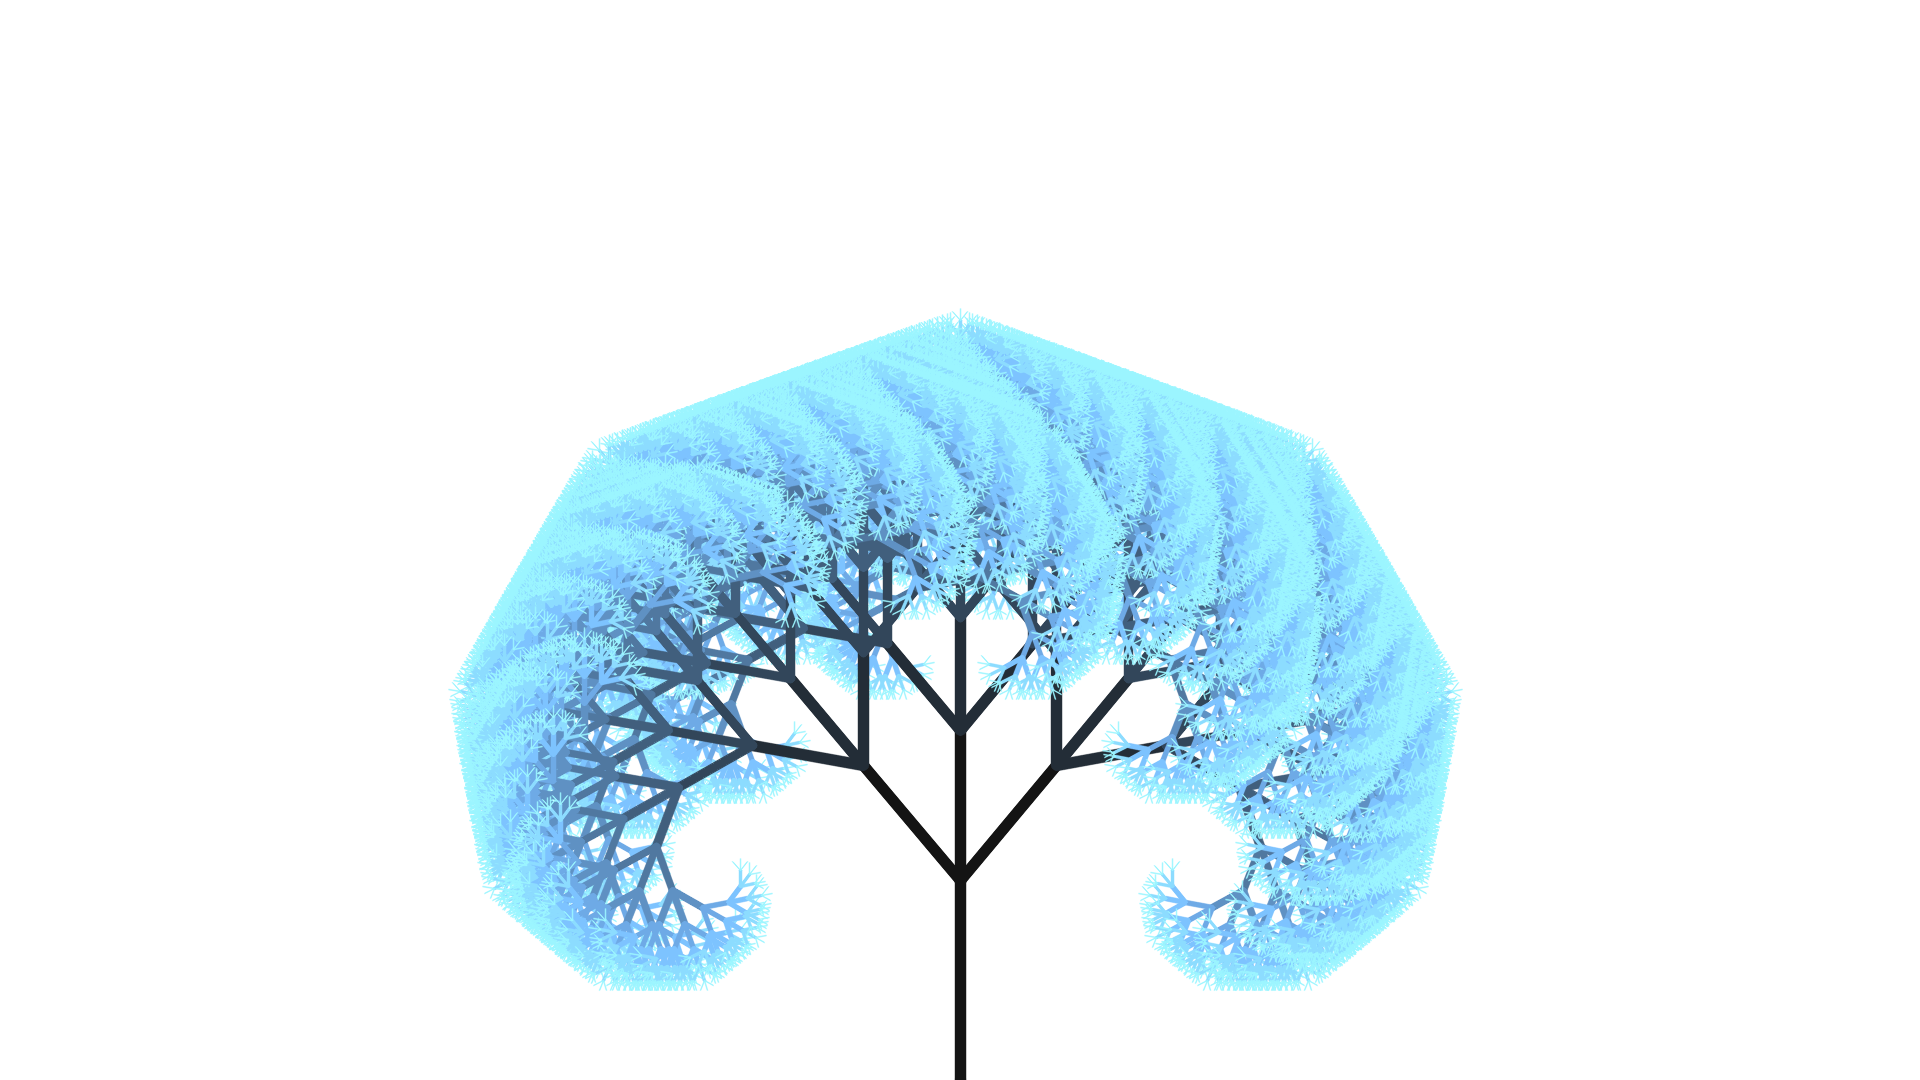
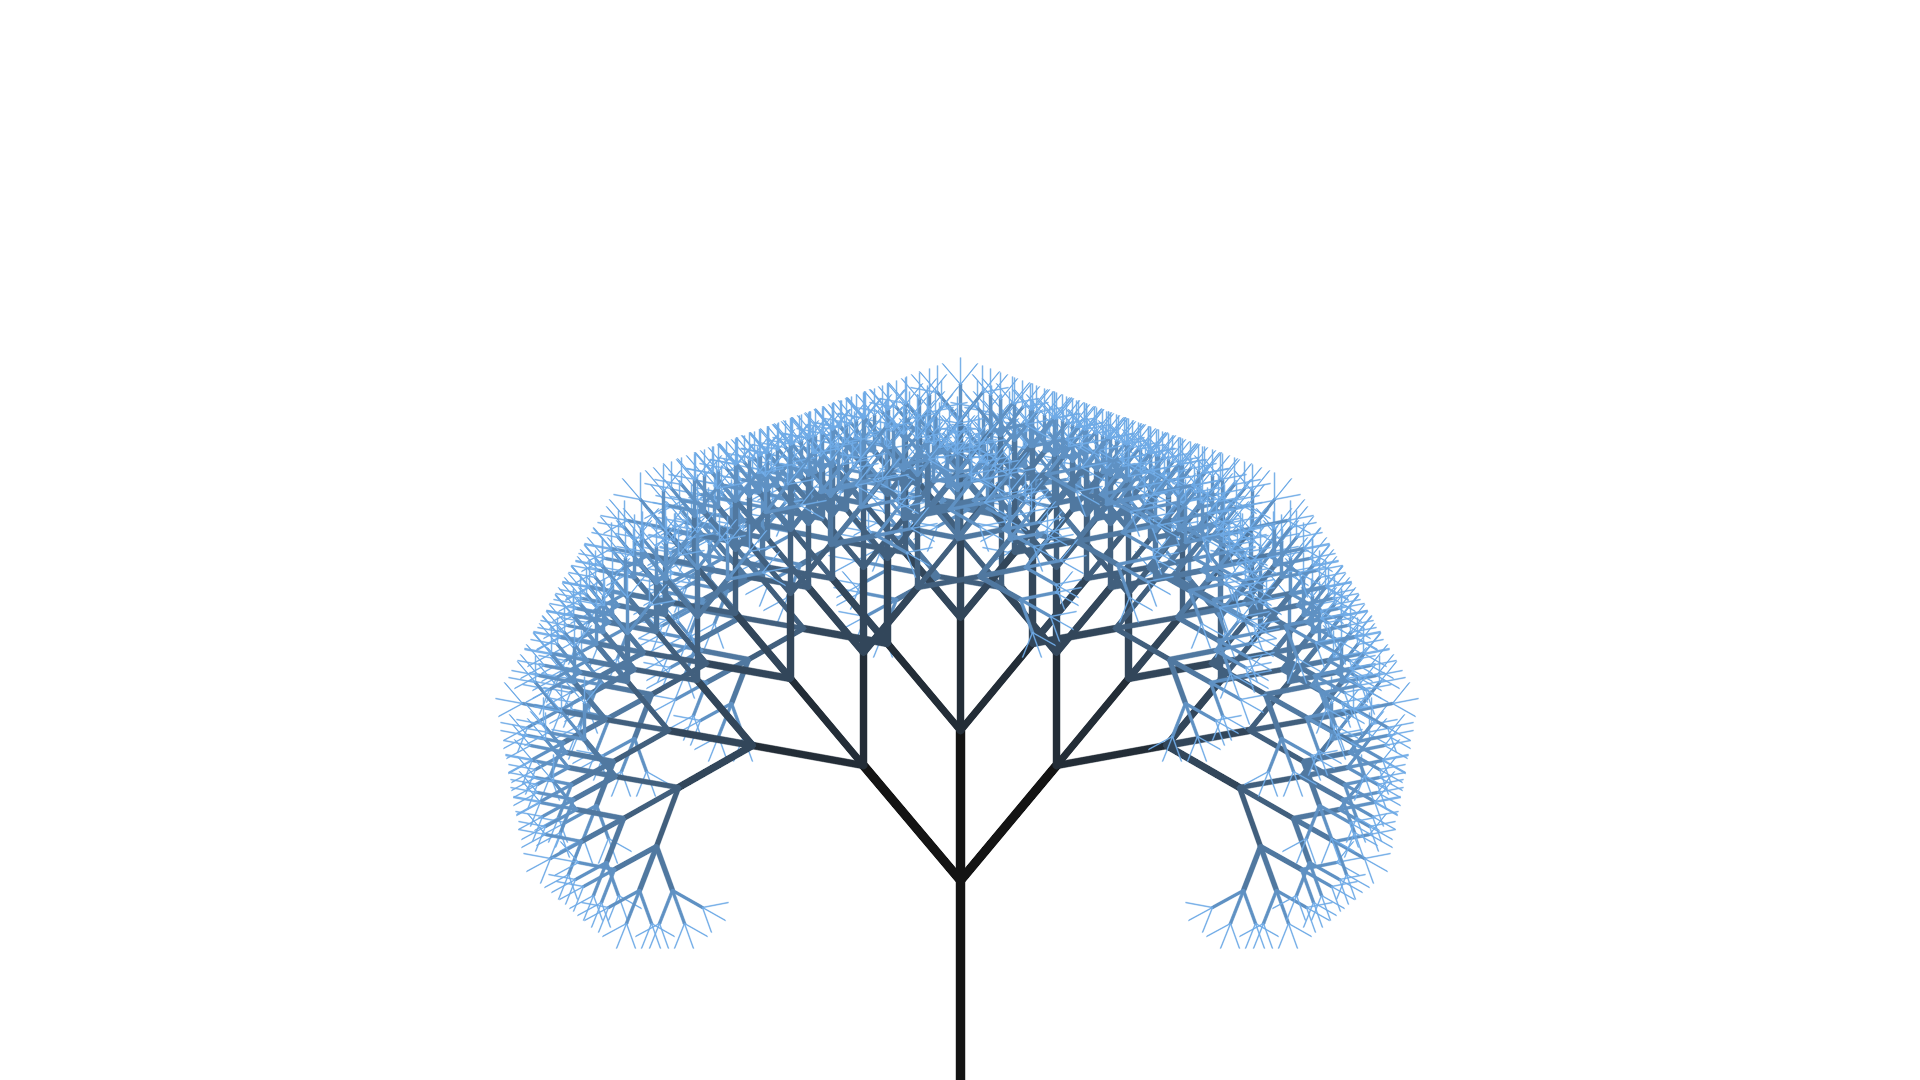
Separated main window to options and image preview

Changed region(s): [[0.2188, 0.275, 0.7812, 0.9167], [0.4688, 0.7639, 0.5312, 0.7944]]

diff --git a/gui/window.py b/gui/window.py
@@ -1,88 +1,135 @@
 from PyQt5.QtCore import Qt
-from PyQt5.QtGui import QPixmap
-from PyQt5.QtWidgets import QMainWindow, QVBoxLayout, QWidget, QHBoxLayout, QLabel
+from PyQt5.QtGui import QPixmap, QImage
+from PyQt5.QtWidgets import QMainWindow, QVBoxLayout, QWidget, QHBoxLayout, QLabel, QScrollArea, QSplitter
 
 from gui.interface.slider import Slider
 from gui.interface.num_box import NumBox
 from gui.interface.color_box import ColorBox
 from gui.interface.checkbox import Checkbox
-from gui.interface.separator import Separator
+from gui.interface.horizontal_separator import HorizontalSeparator
 from fractalgenerator.fractal_generator import *
+from gui.interface.vertical_separator import VerticalSeparator
+
+
+# TODO Add preview scale slider
+# TODO Add export image button
 
 
 class MainWindow(QMainWindow):
     def __init__(self):
         super().__init__()
 
-        tree_generator = FractalGenerator("Fractal Tree")
-        tree_generator.generate_tree()
+        self.fractal_gen = FractalGenerator("Fractal Tree")
+        self.fractal_gen.generate_tree()
 
-        self.setWindowTitle("Fractal Generator Options")
-        self.setGeometry(100, 100, 500, 600)
+        self.setWindowTitle("Fractal Tree Generator")
+        self.setGeometry(100, 100, 1200, 720)
 
         central_widget = QWidget()
         self.setCentralWidget(central_widget)
 
-        layout = QHBoxLayout()
-
         options_layout = QVBoxLayout()
-        image_layout = QVBoxLayout()
+        image_layout = QHBoxLayout()
 
-        self.width_box = NumBox("Image width:", 50, 9999, DEFAULT_WINDOW_WIDTH)
+        self.width_box = NumBox("Image width:", 50, 9999, DEFAULT_WINDOW_WIDTH, on_change_fun=self.update_generator_values)
         options_layout.addLayout(self.width_box.get_layout())
 
-        self.height_box = NumBox("Image height:", 50, 9999, DEFAULT_WINDOW_HEIGHT)
+        self.height_box = NumBox("Image height:", 50, 9999, DEFAULT_WINDOW_HEIGHT, on_change_fun=self.update_generator_values)
         options_layout.addLayout(self.height_box.get_layout())
 
-        options_layout.addLayout(Separator().get_layout())
+        options_layout.addLayout(HorizontalSeparator().get_layout())
 
-        self.angle_slider = Slider("Branch angle:", 0, 180, DEFAULT_ANGLE_DIFF)
+        self.angle_slider = Slider("Branch angle:", 0, 90, DEFAULT_ANGLE_DIFF, on_change_fun=self.update_generator_values)
         options_layout.addLayout(self.angle_slider.get_layout())
 
-        self.branch_shorten_slider = Slider("Branch shorten:", 1, 99, DEFAULT_BRANCH_SHORTEN, precision=100)
+        self.branch_shorten_slider = Slider("Branch shorten:", 1, 99, DEFAULT_BRANCH_SHORTEN, precision=100, on_change_fun=self.update_generator_values)
         options_layout.addLayout(self.branch_shorten_slider.get_layout())
 
-        options_layout.addLayout(Separator().get_layout())
+        options_layout.addLayout(HorizontalSeparator().get_layout())
 
-        self.iterations_box = NumBox("Iterations:", 0, 20, DEFAULT_ITERATIONS)
+        self.iterations_box = NumBox("Iterations:", 0, 20, DEFAULT_ITERATIONS, on_change_fun=self.update_generator_values)
         options_layout.addLayout(self.iterations_box.get_layout())
 
-        self.branches_box = NumBox("Branches:", 1, 7, DEFAULT_BRANCHES)
+        self.branches_box = NumBox("Branches:", 1, 7, DEFAULT_BRANCHES, on_change_fun=self.update_generator_values)
         options_layout.addLayout(self.branches_box.get_layout())
 
-        self.branch_length_box = NumBox("Branch start length:", 1, 9999, DEFAULT_START_BRANCH_LENGTH)
+        self.branch_length_box = NumBox("Branch start length:", 1, 9999, DEFAULT_START_BRANCH_LENGTH, on_change_fun=self.update_generator_values)
         options_layout.addLayout(self.branch_length_box.get_layout())
 
-        self.root_height_box = NumBox("Root height:", 1, 9999, DEFAULT_ROOT_HEIGHT)
+        self.root_height_box = NumBox("Root height:", 1, 9999, DEFAULT_ROOT_HEIGHT, on_change_fun=self.update_generator_values)
         options_layout.addLayout(self.root_height_box.get_layout())
 
-        options_layout.addLayout(Separator().get_layout())
+        options_layout.addLayout(HorizontalSeparator().get_layout())
 
-        self.tree_color_box = ColorBox("Tree color", DEFAULT_TREE_COLOR)
+        self.tree_color_box = ColorBox("Tree color", DEFAULT_TREE_COLOR, on_change_fun=self.update_generator_values)
         options_layout.addLayout(self.tree_color_box.get_layout())
 
-        self.branch_fade_color_box = ColorBox("Branch fade color", DEFAULT_TREE_FADE_COLOR)
+        self.branch_fade_color_box = ColorBox("Branch fade color step", DEFAULT_TREE_FADE_COLOR, on_change_fun=self.update_generator_values)
         options_layout.addLayout(self.branch_fade_color_box.get_layout())
 
-        self.background_color_box = ColorBox("Background color", DEFAULT_BACKGROUND_COLOR)
+        self.background_color_box = ColorBox("Background color", DEFAULT_BACKGROUND_COLOR, on_change_fun=self.update_generator_values)
         options_layout.addLayout(self.background_color_box.get_layout())
 
-        options_layout.addLayout(Separator().get_layout())
+        options_layout.addLayout(HorizontalSeparator().get_layout())
 
-        self.fade_checkbox = Checkbox("Branch color fade", DEFAULT_COLOR_FADE)
+        self.fade_checkbox = Checkbox("Branch color fade", DEFAULT_COLOR_FADE, on_change_fun=self.update_generator_values)
         options_layout.addLayout(self.fade_checkbox.get_layout())
 
+        image_layout.addLayout(VerticalSeparator().get_layout())
+
         self.image_label = QLabel()
-        self.pixmap = QPixmap('test.png')
-        image_layout.addWidget(self.image_label)
+        self.image_label.setAlignment(Qt.AlignCenter)
+        scroll_area = QScrollArea()
+        scroll_area.setWidgetResizable(True)
+        scroll_area.setWidget(self.image_label)
+        image_layout.addWidget(scroll_area)
+        self.pixmap = self.load_image()
         self.update_image()
 
-        layout.addLayout(options_layout)
-        layout.addLayout(image_layout)
+        layout = QHBoxLayout()
+
+        options_widget = QWidget()
+        image_widget = QWidget()
+
+        splitter = QSplitter()
+
+        options_widget.setLayout(options_layout)
+        image_widget.setLayout(image_layout)
+
+        splitter.addWidget(options_widget)
+
+        splitter.addWidget(image_widget)
+
+        layout.addWidget(splitter)
         central_widget.setLayout(layout)
 
+    def update_generator_values(self):
+        self.fractal_gen.height = self.height_box.get_value()
+        self.fractal_gen.width = self.width_box.get_value()
+        self.fractal_gen.tree_color = self.tree_color_box.get_rgb_color()
+        self.fractal_gen.tree_fade_color = self.branch_fade_color_box.get_rgb_color()
+        self.fractal_gen.background_color = self.background_color_box.get_rgb_color()
+        self.fractal_gen.iterations = self.iterations_box.get_value()
+        self.fractal_gen.angle_diff = self.angle_slider.get_value()
+        self.fractal_gen.branches = self.branches_box.get_value()
+        self.fractal_gen.branch_shorten = self.branch_shorten_slider.get_value()
+        self.fractal_gen.start_branch_length = self.branch_length_box.get_value()
+        self.fractal_gen.root_height = self.root_height_box.get_value()
+        self.fractal_gen.color_fade = self.fade_checkbox.get_value()
+
+        self.fractal_gen.generate_tree()
+        self.pixmap = self.load_image()
+        self.update_image()
+
+    def load_image(self):
+        image = self.fractal_gen.get_BGR_image()
+        height, width, channel = image.shape
+        bytes_per_line = 3 * width
+        q_image = QImage(image.data, width, height, bytes_per_line, QImage.Format_RGB888)
+        return QPixmap.fromImage(q_image)
+
     def update_image(self):
-        self.pixmap = self.pixmap.scaled(self.image_label.size(), Qt.KeepAspectRatio)
+        # self.pixmap = self.pixmap.scaled(int(self.pixmap.width() * 0.9), int(self.pixmap.height() * 0.9))
         self.image_label.setPixmap(self.pixmap)
 
     def resizeEvent(self, event):

diff --git a/fractalgenerator/fractal_generator.py b/fractalgenerator/fractal_generator.py
@@ -2,21 +2,23 @@ import cv2
 import numpy as np
 import math
 
-from utils import get_color_faded
-
 DEFAULT_WINDOW_WIDTH = 1920
 DEFAULT_WINDOW_HEIGHT = 1080
 DEFAULT_TREE_COLOR = (20, 20, 20)
 DEFAULT_TREE_FADE_COLOR = (15, 25, 35)
 DEFAULT_BACKGROUND_COLOR = (255, 255, 255)
 
-DEFAULT_ITERATIONS = 10
+DEFAULT_ITERATIONS = 6
 DEFAULT_ANGLE_DIFF = 40
 DEFAULT_BRANCHES = 3
 DEFAULT_BRANCH_SHORTEN = 0.75
 DEFAULT_START_BRANCH_LENGTH = 150
 DEFAULT_ROOT_HEIGHT = 200
 DEFAULT_COLOR_FADE = True
+
+
+def get_color_faded(color, fade, value):
+    return [color[0] + (fade[0] * value), color[1] + (fade[1] * value), color[2] + (fade[2] * value)]
 
 
 class FractalGenerator:
@@ -40,7 +42,7 @@ class FractalGenerator:
 
     def generate_tree(self):
         # Draw background
-        self.image[np.all(self.image <= 100, axis=-1)] = self.background_color
+        self.image[np.all(self.image <= 255, axis=-1)] = self.background_color
 
         # Point where the recursion starts
         root_top = (int(self.width / 2), int(self.height - self.root_height))
@@ -54,8 +56,8 @@ class FractalGenerator:
     def show_image(self):
         cv2.imshow(self.window_name, cv2.cvtColor(self.image, cv2.COLOR_BGR2RGB))
 
-    def get_image(self):
-        return cv2.cvtColor(self.image, cv2.COLOR_BGR2RGB)
+    def get_BGR_image(self):
+        return self.image
 
     def write_to_file(self, file_path):
         cv2.imwrite(file_path, cv2.cvtColor(self.image, cv2.COLOR_BGR2RGB))

diff --git a/gui/interface/slider.py b/gui/interface/slider.py
@@ -9,6 +9,7 @@ class Slider(InterfaceElement):
         self.layout = QHBoxLayout()
         self.label = QLabel(text)
         self.precision = precision
+        self.on_change_fun = on_change_fun
         self.slider = QSlider()
         self.slider.setOrientation(Qt.Horizontal)
         self.slider.setMinimum(min_value)
@@ -16,7 +17,7 @@ class Slider(InterfaceElement):
         self.slider.setValue(int(default_value * self.precision))
         self.slider.valueChanged.connect(self.update_value)
         self.slider_value = QLabel("0")
-        self.update_value()
+        self.slider_value.setText(str(default_value))
 
         self.layout.addWidget(self.label)
         self.layout.addWidget(self.slider)
@@ -30,3 +31,6 @@ class Slider(InterfaceElement):
 
     def update_value(self):
         self.slider_value.setText(str(self.get_value()))
+
+        if self.on_change_fun is not None:
+            self.on_change_fun()

diff --git a/gui/interface/color_box.py b/gui/interface/color_box.py
@@ -20,6 +20,8 @@ class ColorBox(InterfaceElement):
 
         self.color_dialog = QColorDialog()
 
+        self.on_change_fun = on_change_fun
+
     def get_layout(self):
         return self.layout
 
@@ -34,3 +36,6 @@ class ColorBox(InterfaceElement):
         if col.isValid():
             self.selected_color = (col.red(), col.green(), col.blue())
             self.set_button_color(self.selected_color)
+
+            if self.on_change_fun is not None:
+                self.on_change_fun()

diff --git a/gui/interface/vertical_separator.py b/gui/interface/vertical_separator.py
@@ -1,0 +1,16 @@
+from PyQt5.QtWidgets import QFrame, QHBoxLayout
+
+from gui.interface.interface_element import InterfaceElement
+
+
+class VerticalSeparator(InterfaceElement):
+    def __init__(self):
+        self.layout = QHBoxLayout()
+        self.separator = QFrame()
+        self.separator.setFrameShape(QFrame.VLine)
+        self.separator.setFrameShadow(QFrame.Sunken)
+
+        self.layout.addWidget(self.separator)
+
+    def get_layout(self):
+        return self.layout

diff --git a/gui/interface/checkbox.py b/gui/interface/checkbox.py
@@ -9,10 +9,13 @@ class Checkbox(InterfaceElement):
         self.checkbox = QCheckBox(text)
         self.checkbox.setChecked(default_value)
 
+        if on_change_fun is not None:
+            self.checkbox.stateChanged.connect(on_change_fun)
+
         self.layout.addWidget(self.checkbox)
 
     def get_layout(self):
         return self.layout
 
     def get_value(self):
-        return self.checkbox.value()
+        return self.checkbox.isChecked()

diff --git a/gui/interface/num_box.py b/gui/interface/num_box.py
@@ -12,6 +12,9 @@ class NumBox(InterfaceElement):
         self.input.setMaximum(max_value)
         self.input.setValue(default_value)
 
+        if on_change_fun is not None:
+            self.input.valueChanged.connect(on_change_fun)
+
         self.layout.addWidget(self.label)
         self.layout.addWidget(self.input)
 

diff --git a/gui/interface/horizontal_separator.py b/gui/interface/horizontal_separator.py
@@ -3,7 +3,7 @@ from PyQt5.QtWidgets import QHBoxLayout, QFrame
 from gui.interface.interface_element import InterfaceElement
 
 
-class Separator(InterfaceElement):
+class HorizontalSeparator(InterfaceElement):
     def __init__(self):
         self.layout = QHBoxLayout()
         self.separator = QFrame()
